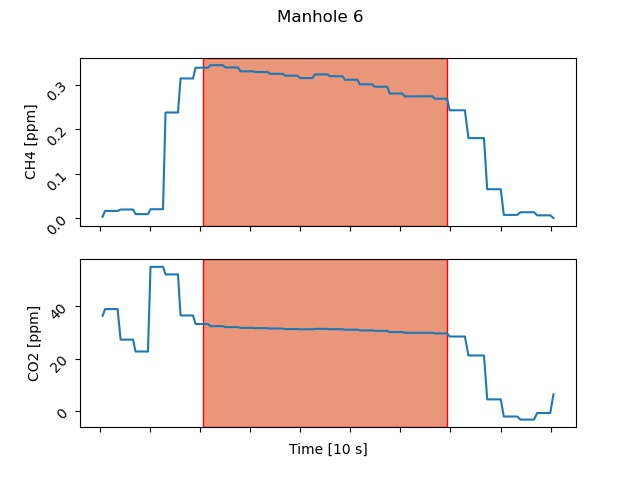
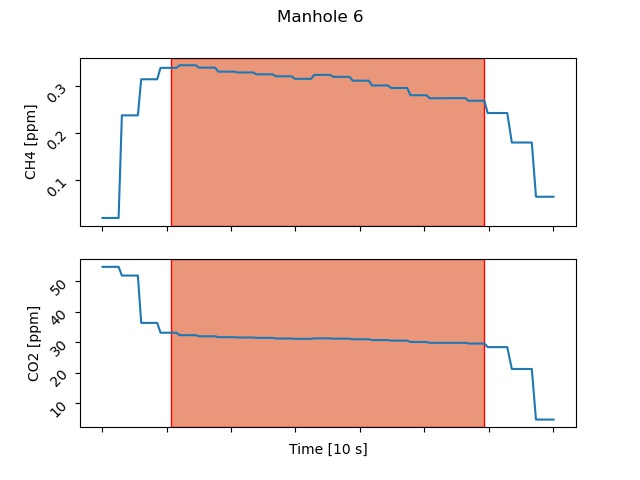
Python file recovery and map with only locations

diff --git a/python_analysis.py b/python_analysis.py
@@ -170,14 +170,17 @@ plt.ylabel('CH4 [ppb]')
 plt.xlabel('CO2 [ppm]')
 plt.legend(handles=[l1,l2,l3,l4,p1])
 plt.savefig('combined_slopes.pdf')
-#%%Plotting data
+
+
+#%%Plotting map with measurement locations
+
 
 from mpl_toolkits.axes_grid1 import make_axes_locatable
+from matplotlib.lines import Line2D
 
 #Load map and setting coordinates
 lat_max =52.0881
 lat_min =52.0847   
-
 lon_max = 5.1775
 lon_min = 5.1632
 
@@ -185,32 +188,109 @@ BBox = ((lon_min,lon_max,lat_min,lat_max))
 im = plt.imread(os.path.join(path,"map_52.0881_5.1775_52.0847_5.1632.png"))
 
 #Dictionary for coding different pipe types on map
-pipetype = {'sewege':'v',
+pipetype_symbols = {'sewege':'v',
             'rain':'o',
-            'gas':'s'}
+            'gas':'s',
+            'undefined':'X'}
 
-fig,ax = plt.subplots(figsize=(12,8))
+fig,ax = plt.subplots(figsize=(10,2.5))
 
-vmin = np.min(params[0])
-vmax = np.max(params[0])
+vmin = np.min(params[0])*1000
+vmax = np.max(params[0])*1000
 for i in range(len(params[0])):
-    
     plot = ax.scatter(coor['lon'][i],coor['lat'][i],
-                      c=params[0][i],
-                      zorder=1,s=40, 
+                      c='none',
+                      zorder=1,s=160, 
                       cmap='plasma',vmin=vmin,vmax=vmax,alpha=0.8,
-                      marker=pipetype[coor["pipetype"][i]])
-    
+                      ec='k',linewidths=1,
+                      marker=pipetype_symbols[coor["pipetype"][i]])
     
 ax.set_xlim(lon_min,lon_max)
 ax.set_ylim(lat_min,lat_max)
+ax.set_xticks([])
+ax.set_yticks([])
+ax.set_xticklabels([])
+ax.set_yticklabels([])
+ax.set_xlabel('Longitude')
+ax.set_ylabel('Lattitude')
+
+ax.imshow(im,zorder=0,extent=BBox,aspect='equal',alpha=0.5)
+
+#plot legend
+symbols = [Line2D([0],[0],marker='v',c='none',mec='k',label='sewage',ms=10),
+           Line2D([0],[0],marker='o',c='none',mec='k',label='rain',ms=10),
+           Line2D([0],[0],marker='s',c='none',mec='k',label='gas',ms=10),
+           Line2D([0],[0],marker='X',c='none',mec='k',label='undefined',ms=10)]
+
+fig.legend(handles=symbols,ncol=4,loc='upper center',bbox_to_anchor=(0.5,1))
+
+fig.savefig(os.path.join(path,'map_locations.jpg'))
+
+
+
+#%%Plotting map with data
+
+from matplotlib.lines import Line2D
+from matplotlib.colors import LinearSegmentedColormap
+
+#Setting colormap
+
+colors = ['orangered',"darkorange", "gold", "lawngreen", "lightseagreen"]
+nodes = [0,0.03,0.1,0.4,1]
+cmap = LinearSegmentedColormap.from_list("mycmap", list(zip(nodes, colors)))
+
+#Load map and setting coordinates
+lat_max =52.0881
+lat_min =52.0847   
+lon_max = 5.1775
+lon_min = 5.1632
+
+BBox = ((lon_min,lon_max,lat_min,lat_max))
+im = plt.imread(os.path.join(path,"map_52.0881_5.1775_52.0847_5.1632.png"))
+
+#Dictionary for coding different pipe types on map
+pipetype_symbols = {'sewege':'v',
+            'rain':'o',
+            'gas':'s',
+            'undefined':'X'}
+
+fig,ax = plt.subplots(figsize=(10,2.5))
+
+vmin = np.min(params[0])*1000
+vmax = np.max(params[0])*1000
+for i in range(len(params[0])):
+    plot = ax.scatter(coor['lon'][i],coor['lat'][i],
+                      c=params[0][i]*1000,
+                      zorder=1,s=160, 
+                      cmap=cmap,vmin=vmin,vmax=vmax,alpha=0.8,
+                      ec='k',linewidths=1,
+                      marker=pipetype_symbols[coor["pipetype"][i]])
+    
+ax.set_xlim(lon_min,lon_max)
+ax.set_ylim(lat_min,lat_max)
+ax.set_xticks([])
+ax.set_yticks([])
+ax.set_xticklabels([])
+ax.set_yticklabels([])
+ax.set_xlabel('Longitude')
+ax.set_ylabel('Lattitude')
 
 ax.imshow(im,zorder=0,extent=BBox,aspect='equal',alpha=0.5)
 
 divider = make_axes_locatable(ax)
 cax = divider.append_axes("right", size="2%", pad=0.05)
 cbar = plt.colorbar(plot, cax=cax)
-cbar.set_label("ppm/ppm")
+cbar.set_label("CH4:CO2 [ppb/ppm]")
+
+#plot legend
+symbols = [Line2D([0],[0],marker='v',c='none',mec='k',label='sewage',ms=10),
+           Line2D([0],[0],marker='o',c='none',mec='k',label='rain',ms=10),
+           Line2D([0],[0],marker='s',c='none',mec='k',label='gas',ms=10),
+           Line2D([0],[0],marker='X',c='none',mec='k',label='undefined',ms=10)]
+
+fig.legend(handles=symbols,ncol=4,loc='upper center',bbox_to_anchor=(0.5,1))
+
+fig.savefig(os.path.join(path,'map_ratios.jpg'))
 
 
 #%%Save data to csv file
@@ -253,15 +333,18 @@ for i in range(len(t_end)):
     
     axs[0].xaxis.set_major_locator(MultipleLocator(10))
     axs[1].xaxis.set_major_locator(MultipleLocator(10))
-    axs[0].xaxis.set_minor_locator(MultipleLocator(2))
-    axs[1].xaxis.set_minor_locator(MultipleLocator(2))
+    # axs[0].xaxis.set_minor_locator(MultipleLocator(2))
+    # axs[1].xaxis.set_minor_locator(MultipleLocator(2))
+    axs[0].set_xticklabels([])
+    axs[1].set_xticklabels([])
+    
     
     axs[0].tick_params(labelrotation=45)
     axs[1].tick_params(labelrotation=45)
     
     axs[0].set_ylabel('CH4 [ppm]')
     axs[1].set_ylabel('CO2 [ppm]')
-    axs[1].set_xlabel('Time (s)')
+    axs[1].set_xlabel('Time [10 s]')
     fig.suptitle('Manhole %i'%(i+1))
     
     
@@ -309,10 +392,12 @@ axs[1].xaxis.set_minor_locator(MultipleLocator(10))
 
 axs[0].tick_params(labelrotation=45)
 axs[1].tick_params(labelrotation=45)
-
+axs[0].set_xticklabels([])
+axs[1].set_xticklabels([])
+    
 axs[0].set_ylabel('CH4 [ppm]')
 axs[1].set_ylabel('CO2 [ppm]')
-axs[1].set_xlabel('Time (s)')
+axs[1].set_xlabel('Time [10 s]')
 fig.suptitle('Manhole %i'%(i+1))
 
 #Plotting shaded area of ToI
@@ -320,8 +405,8 @@ area_CH4 = axs[0].axvspan(t_min,t_max,color='darksalmon',ec='red')
 area_CO2 = axs[1].axvspan(t_min,t_max,color='darksalmon',ec='red')
 
 #Plot data little before and after ToI
-undershoot = 500 #Amount of datapoints overshoot before and after time of interest
-overshoot = 10 #Amount of datapoints overshoot before and after time of interest
+undershoot = 20 #Amount of datapoints overshoot before and after time of interest
+overshoot = 20 #Amount of datapoints overshoot before and after time of interest
 
 times_plot = times[int(i_start-undershoot):int(i_end+overshoot)] #Timespan that is plotted
 CH4 = df['CH4'][int(i_start-undershoot):int(i_end+overshoot)]-CH4_bg #Select data
@@ -333,6 +418,5 @@ C02_plot = axs[1].plot(times_plot,CO2)
 fig.savefig(os.path.join(path,"figures_individual_measurements","manhole_%i.jpg"%(i+1)))
 print(MultipleLocator(10))
 
-#%%
 
 
